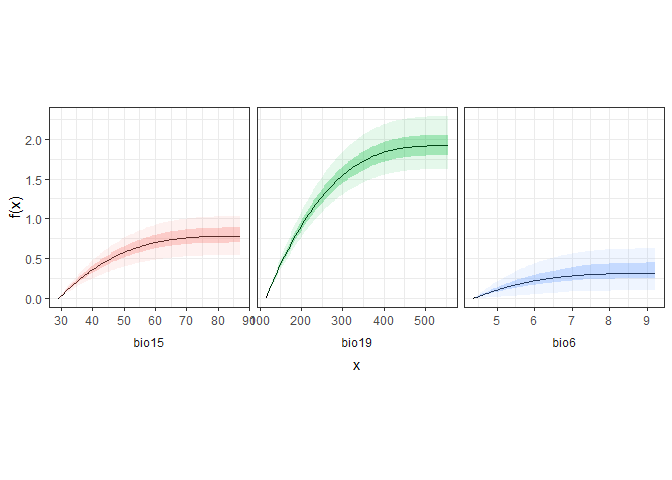
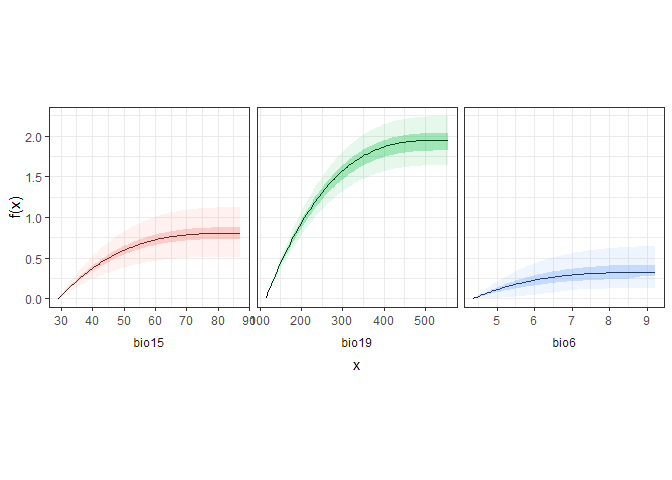
Update README

diff --git a/README.md b/README.md
@@ -19,6 +19,12 @@ devtools::install_github('dhercar/gdmmTMB')
 
 # A brief introduction to `gdmmTMB`
 
+ToDo
+
+# Example
+
+Prep data
+
 ``` r
 library(tidyverse)
 library(gdmmTMB)
@@ -55,17 +61,24 @@ kableExtra::kable(head(env))
 |  885 | 20.2775 | 411.4175 | 76.60250 | 185.1150 |   967.4150 | 36.04857 | 5.680000 | 54.51429 |     0 | 128.7429 | -29.63957 | 117.1029 |
 |  886 | 14.2750 | 277.9775 | 62.86750 | 119.9950 |   705.0200 | 36.03030 | 5.409091 | 50.30303 |     0 | 118.0606 | -29.69400 | 117.6156 |
 
+Fit model
+
 ``` r
 m <- gdmm(Y = sp[,-1],
           X = env,
-          diss_formula = ~ isp(bio6)  + isp(bio15) + isp(bio19),
+          diss_formula = ~ 
+            isp(bio6)  +
+            isp(bio15) + 
+            isp(bio19),
           family = 'binomial',
-          n_boot = 100,
+          n_boot = 100, # should be at least
           bboot = T,
           mono = T)
 ```
 
     ## Running bayesian bootstrapping on 22 cores ...done
+
+Print summary
 
 ``` r
 summary(m)
@@ -82,16 +95,16 @@ summary(m)
     ## --------------------------------- Coeff. Table --------------------------------- 
     ## 
     ##                    Estimate  Std.Err.      2.5%       50%     97.5% pseudo-Z
-    ## diss: isp(bio6)1  3.224e-01 1.477e-01 3.332e-02 3.155e-01 6.217e-01   2.1833
-    ## diss: isp(bio6)2  1.684e-02 5.173e-02 1.004e-08 1.569e-08 1.733e-01   0.3255
-    ## diss: isp(bio6)3  9.232e-03 2.896e-02 1.000e-08 1.030e-08 1.187e-01   0.3188
-    ## diss: isp(bio15)1 7.871e-01 1.292e-01 5.403e-01 7.820e-01 1.027e+00   6.0927
-    ## diss: isp(bio15)2 1.062e-08 2.949e-09 1.000e-08 1.001e-08 1.359e-08   3.6032
-    ## diss: isp(bio15)3 1.032e-08 2.501e-09 1.000e-08 1.000e-08 1.100e-08   4.1264
-    ## diss: isp(bio19)1 1.933e+00 1.805e-01 1.619e+00 1.917e+00 2.281e+00  10.7096
-    ## diss: isp(bio19)2 1.024e-08 9.344e-10 1.000e-08 1.000e-08 1.251e-08  10.9603
-    ## diss: isp(bio19)3 1.080e-08 6.416e-09 1.000e-08 1.000e-08 1.268e-08   1.6833
-    ## (Intercept)       1.755e-01 6.918e-02 3.928e-02 1.743e-01 3.078e-01   2.5364
+    ## diss: isp(bio6)1  3.146e-01 1.642e-01 4.497e-08 2.945e-01 6.421e-01   1.9159
+    ## diss: isp(bio6)2  1.230e-02 5.524e-02 1.002e-08 1.441e-08 1.406e-01   0.2226
+    ## diss: isp(bio6)3  1.041e-02 3.282e-02 1.000e-08 1.029e-08 1.077e-01   0.3172
+    ## diss: isp(bio15)1 8.296e-01 1.498e-01 6.218e-01 8.206e-01 1.148e+00   5.5399
+    ## diss: isp(bio15)2 5.131e-04 5.131e-03 1.000e-08 1.001e-08 1.145e-08   0.1000
+    ## diss: isp(bio15)3 1.057e-08 5.257e-09 1.000e-08 1.000e-08 1.049e-08   2.0113
+    ## diss: isp(bio19)1 1.921e+00 1.625e-01 1.538e+00 1.933e+00 2.189e+00  11.8181
+    ## diss: isp(bio19)2 1.020e-08 9.398e-10 1.000e-08 1.000e-08 1.079e-08  10.8569
+    ## diss: isp(bio19)3 2.046e-03 2.046e-02 1.000e-08 1.000e-08 1.101e-08   0.1000
+    ## (Intercept)       1.753e-01 6.858e-02 6.354e-02 1.772e-01 2.926e-01   2.5561
     ##                   pseudo-Pval    
     ## diss: isp(bio6)1       < 0.01 ***
     ## diss: isp(bio6)2       < 0.01 ***
@@ -104,18 +117,25 @@ summary(m)
     ## diss: isp(bio19)3      < 0.01 ***
     ## (Intercept)              0.01   *
 
+    ## 
+    ## CAUTION: P-values for dissimilarity components (diss) should not be used for hypothesis testing when "mono = TRUE"
+
     ## ---
     ## signif. codes: '***' <0.001 '**' <0.01 '*' <0.05 '.' <0.1 
     ## ---
     ## 
-    ## Marginal log-likelihood (average):  -42829.04 
-    ## AIC:  85678.08 , AICc:  85678.13 , BIC:  85741.91 
+    ## Marginal log-likelihood (average):  -43198.07 
+    ## AIC:  86416.14 , AICc:  86416.19 , BIC:  86479.97 
     ## 
     ## --------------------------------------------------------------------------------
+
+Obtain dissimilarity gradients
 
 ``` r
 f_x <- diss_gradient(m, CI_quant = c(0.5, 0.95))
 ```
+
+Plot dissimilarity gradients
 
 ``` r
 library(ggplot2)
@@ -133,4 +153,4 @@ do.call(rbind, f_x) %>% ggplot(aes(fill = var)) +
         aspect.ratio = 1)
 ```
 
-![](README_files/figure-gfm/unnamed-chunk-3-1.png)<!-- -->
+![](README_files/figure-gfm/unnamed-chunk-6-1.png)<!-- -->
